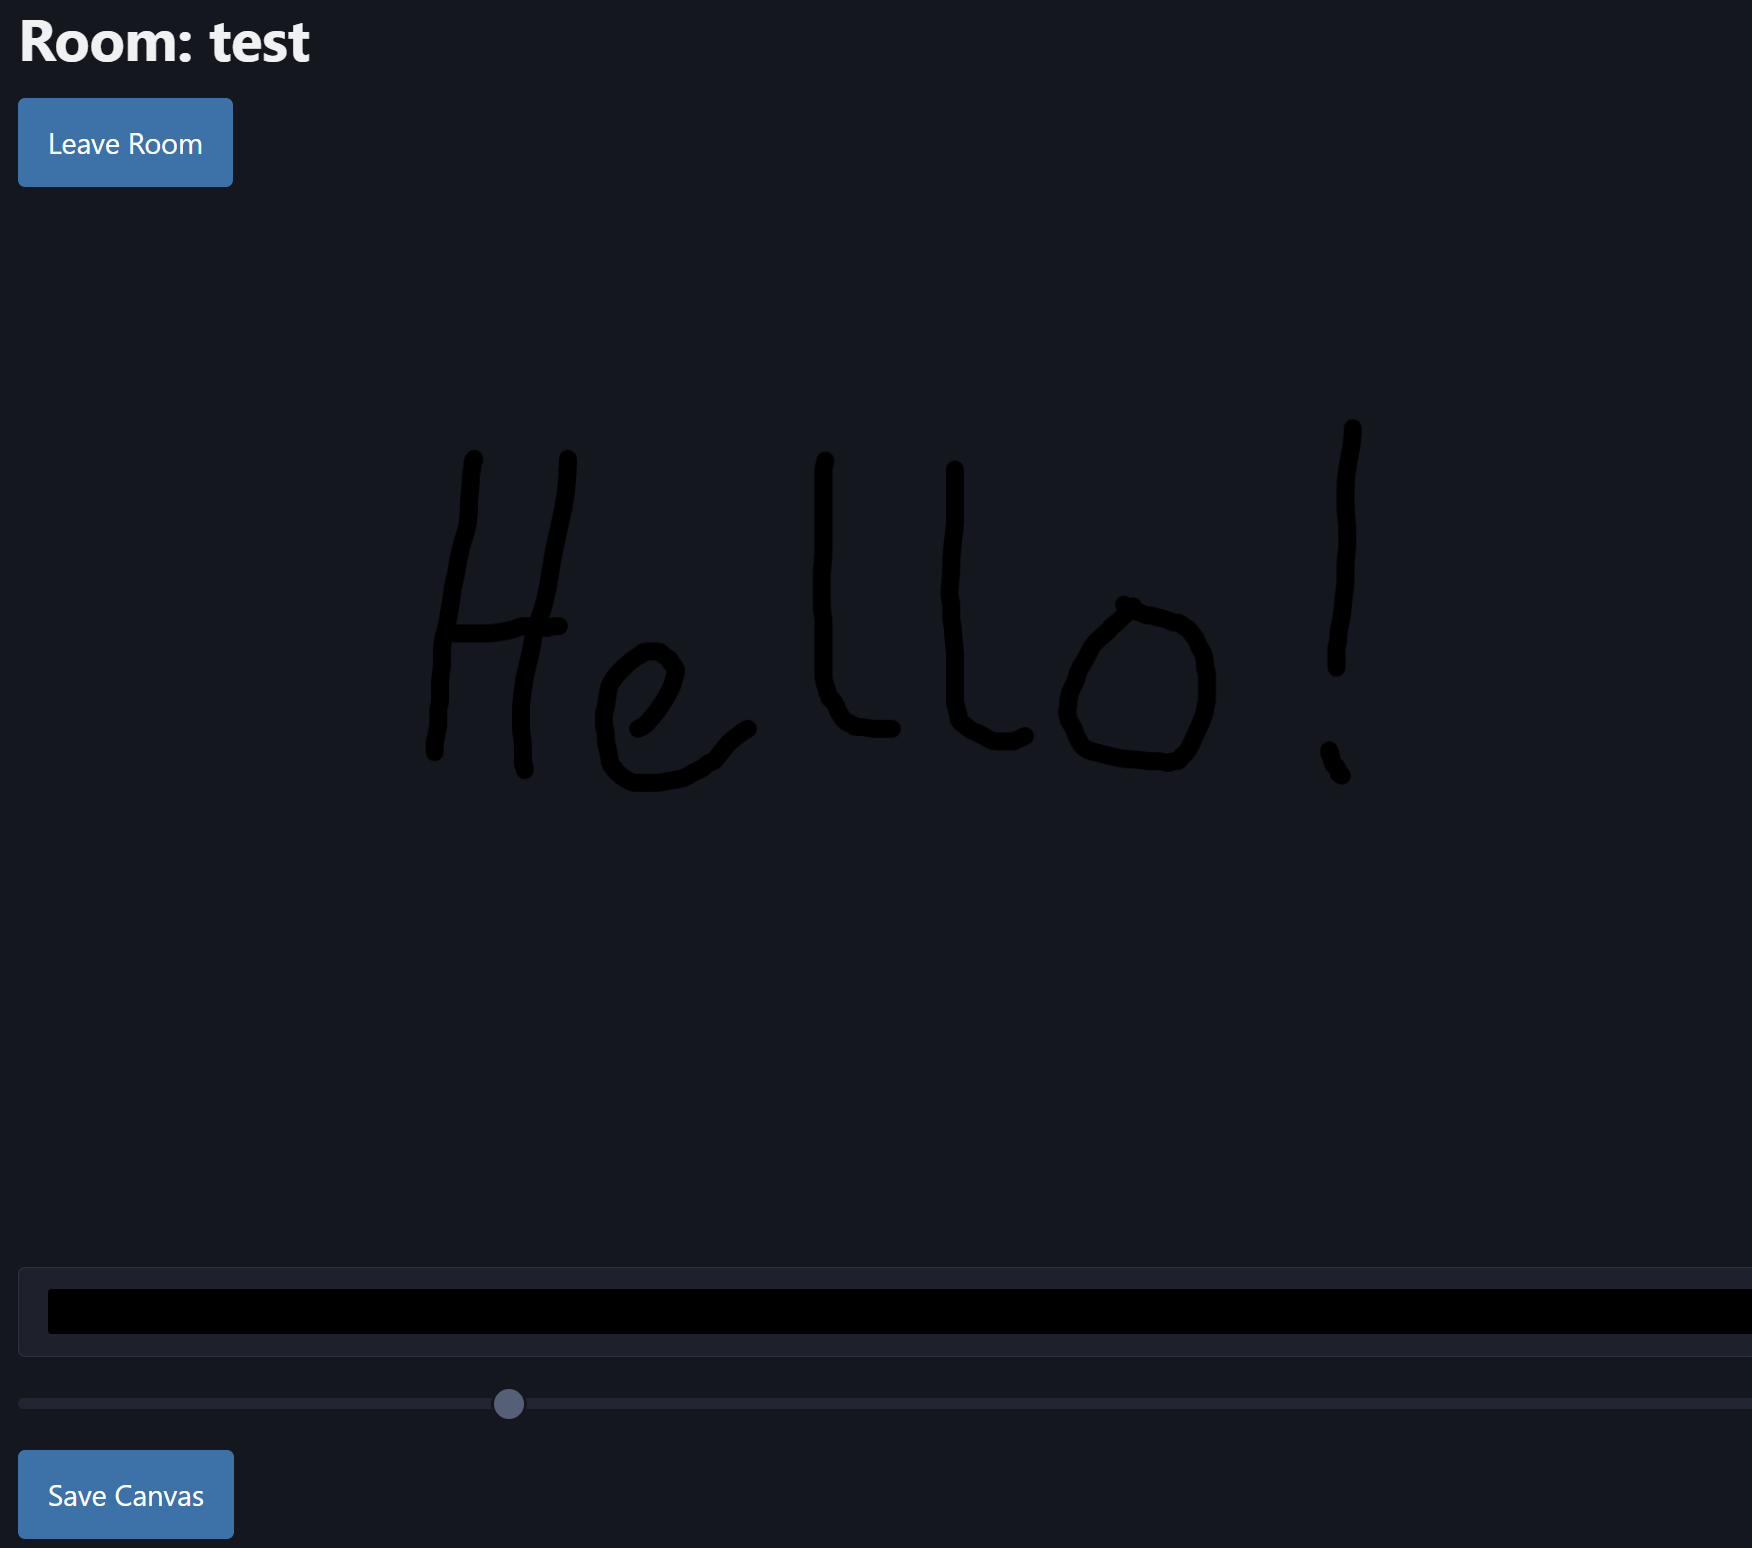
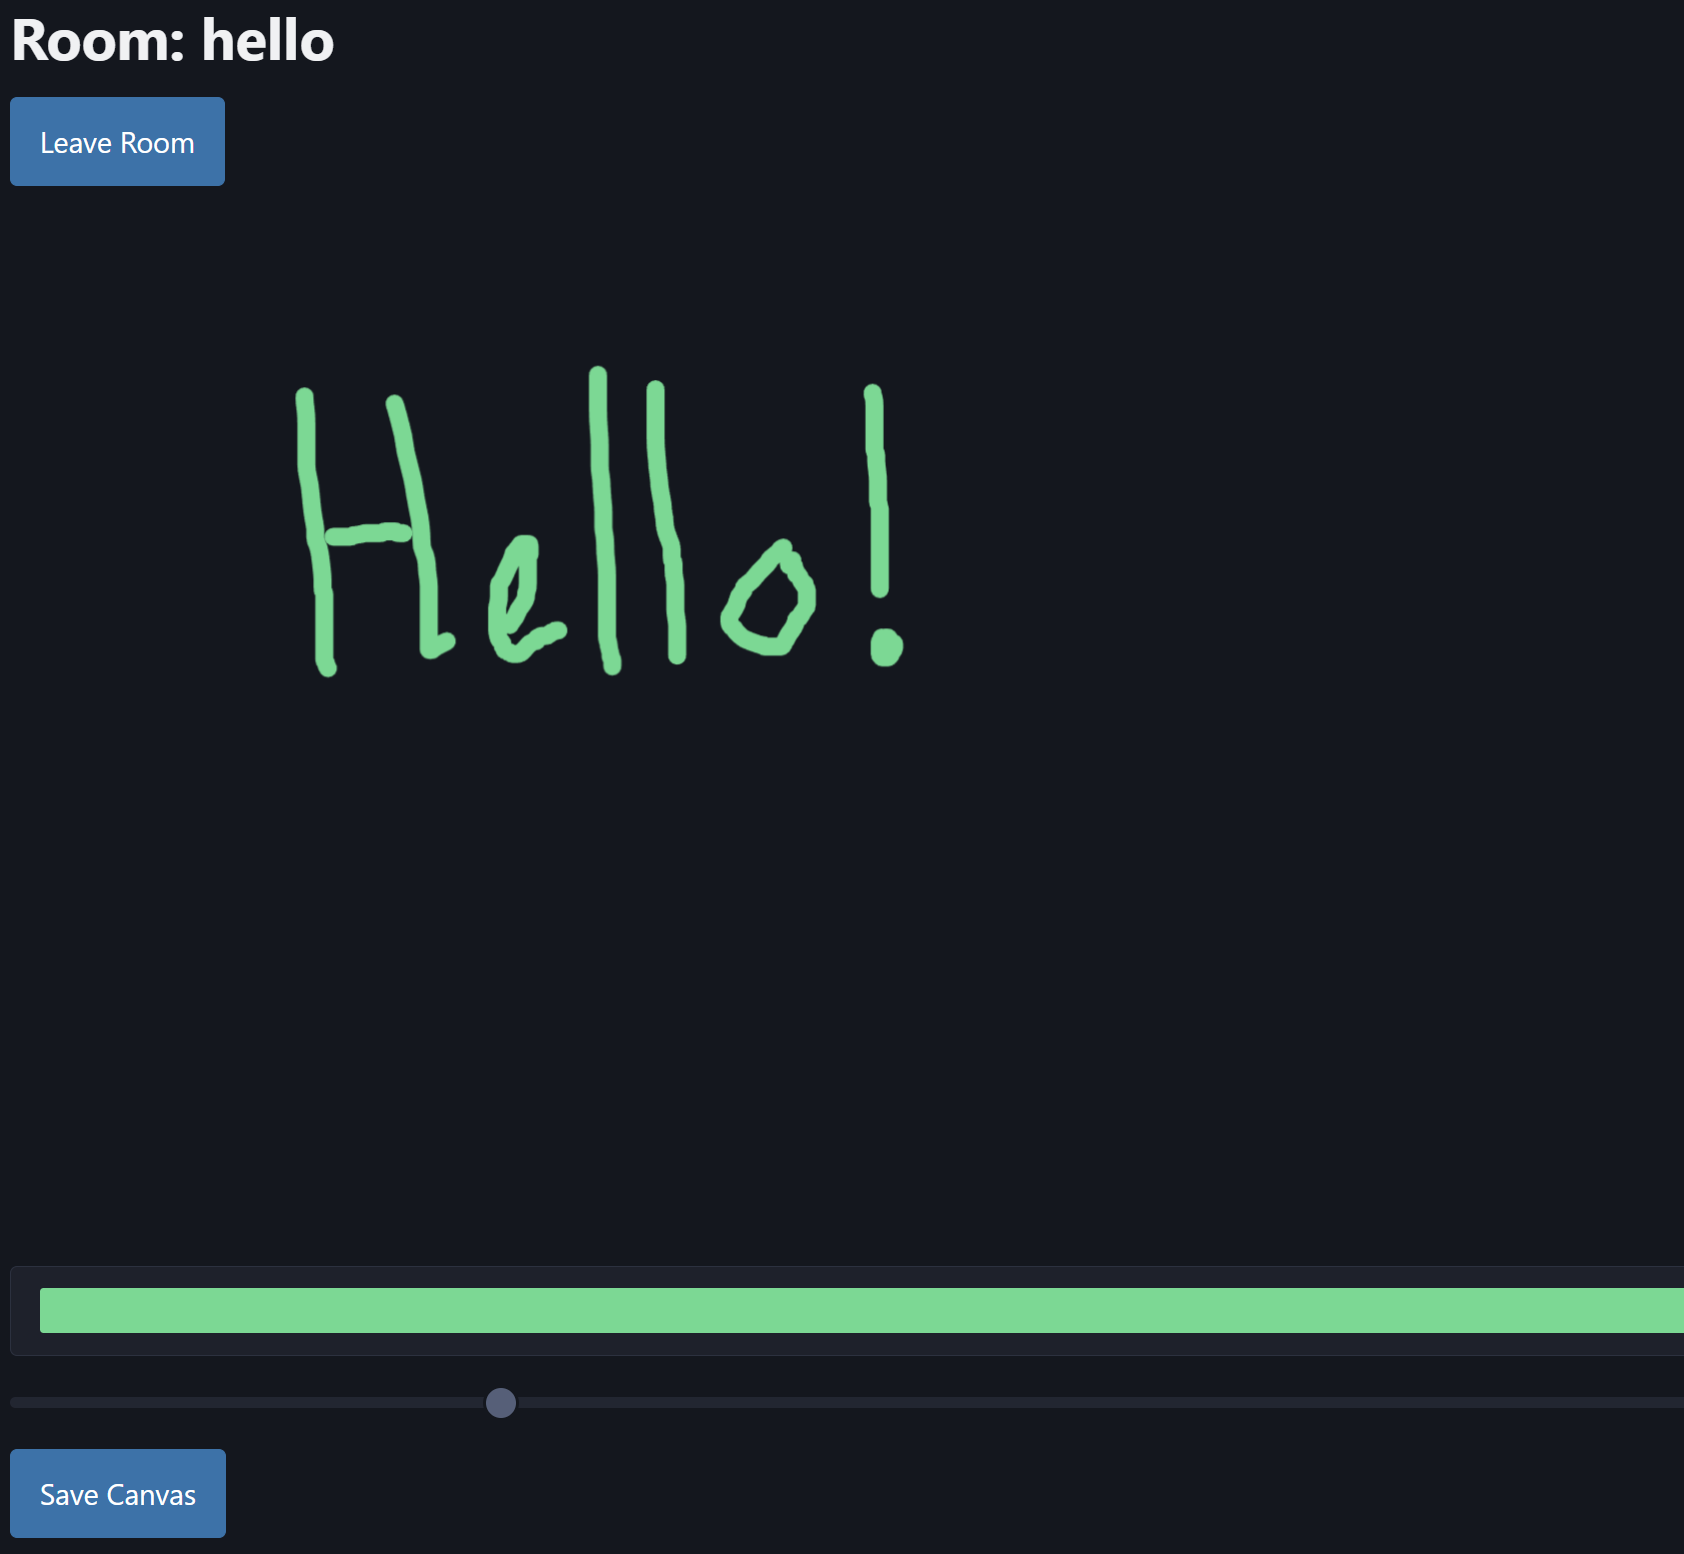
Update color picker default value in quickdraw tutorials

diff --git a/nbs/tutorials/03_quickdraw.py b/nbs/tutorials/03_quickdraw.py
@@ -25,14 +25,14 @@ async def post(room:Room):
 async def get(id:int):
     room = rooms[id]
     canvas = Canvas(id="canvas", width="800", height="600")
-    color_picker = Input(type="color", id="color-picker", value="#000000")
+    color_picker = Input(type="color", id="color-picker", value="#3CDD8C")
     brush_size = Input(type="range", id="brush-size", min="1", max="50", value="10")
     save_button = Button("Save Canvas", id="save-canvas", hx_post=f"/rooms/{id}/save", hx_vals="js:{canvas_data: JSON.stringify(canvas.toJSON())}")
 
     js = f"""
     var canvas = new fabric.Canvas('canvas');
     canvas.isDrawingMode = true;
-    canvas.freeDrawingBrush.color = '#000000';
+    canvas.freeDrawingBrush.color = '#3CDD8C';
     canvas.freeDrawingBrush.width = 10;
 
     // Load existing canvas data

diff --git a/nbs/tutorials/02_quickdraw.py b/nbs/tutorials/02_quickdraw.py
@@ -25,13 +25,13 @@ async def post(room:Room):
 async def get(id:int):
     room = rooms[id]
     canvas = Canvas(id="canvas", width="800", height="600")
-    color_picker = Input(type="color", id="color-picker", value="#000000")
+    color_picker = Input(type="color", id="color-picker", value="#3CDD8C")
     brush_size = Input(type="range", id="brush-size", min="1", max="50", value="10")
     
     js = """
     var canvas = new fabric.Canvas('canvas');
     canvas.isDrawingMode = true;
-    canvas.freeDrawingBrush.color = '#000000';
+    canvas.freeDrawingBrush.color = '#3CDD8C';
     canvas.freeDrawingBrush.width = 10;
     
     document.getElementById('color-picker').onchange = function() {
